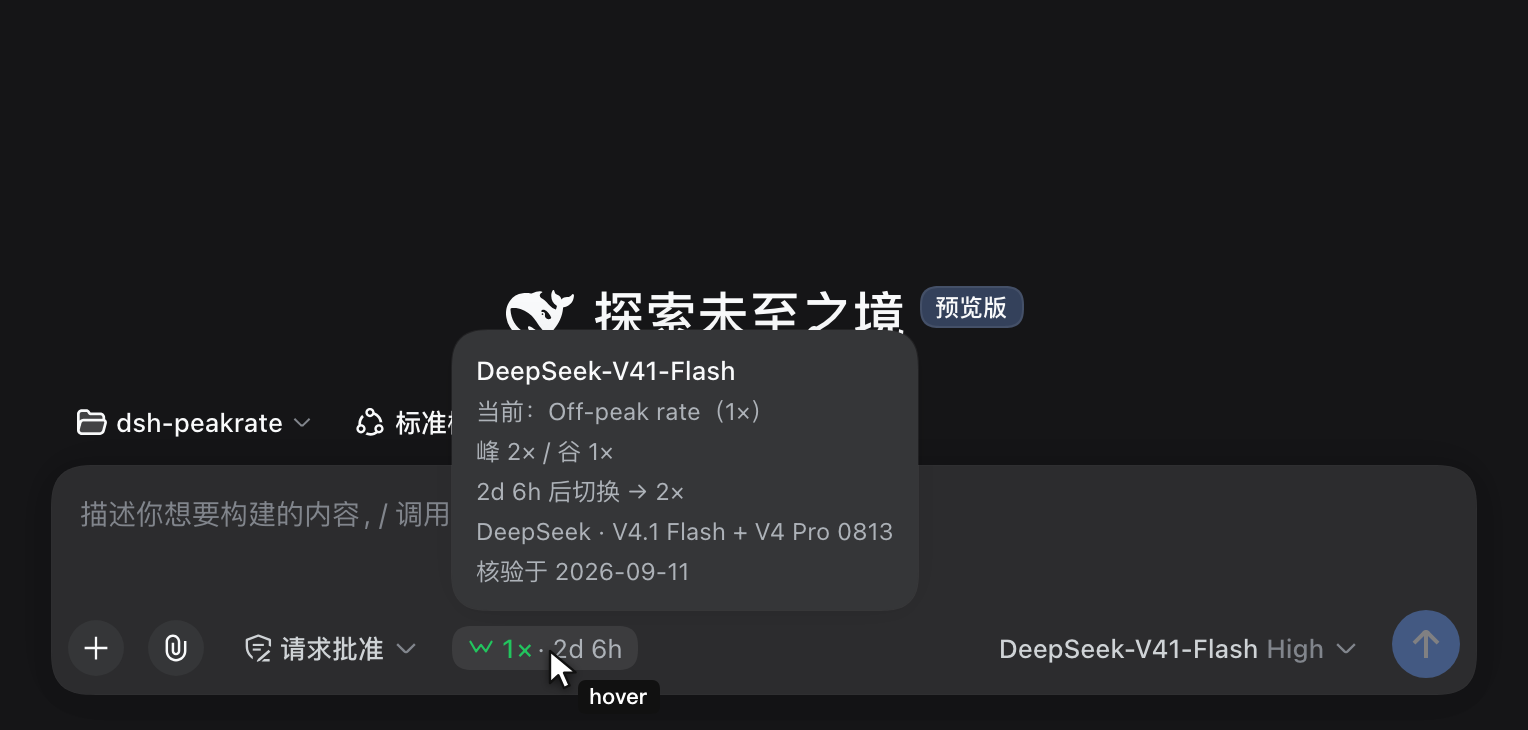
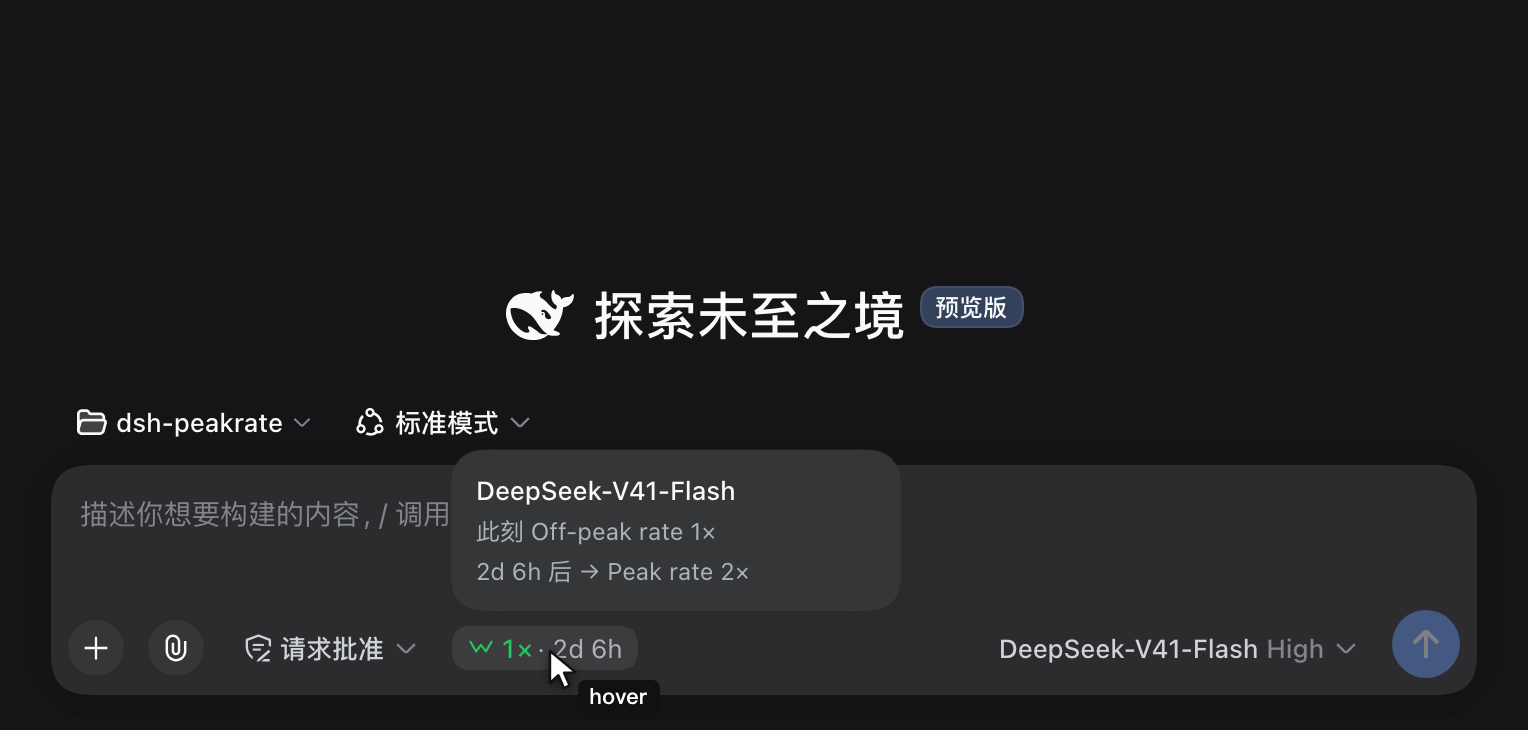
refactor(client): 悬停浮层精简为三行 —— 只讲当前模型（如无必要勿增实体）
用户指出：浮层最下面那行 `DeepSeek · V4.1 Flash + V4 Pro 0813` 列的是**别的模型**
（profile 的覆盖模型族），对使用者没用。

**6 行 → 3 行**：
  DeepSeek-V41-Flash
  此刻 Off-peak rate 1×
  2d 6h 后 → Peak rate 2×

删掉三类「非当前模型 / 重复」的内容：
- profile 覆盖模型族（列别的模型，无用）
- 峰谷对照表 `峰 2× / 谷 1×`（与「此刻 + 下一刻」重复）
- 数据核验日期（属覆盖面板的职责，不属单个模型的即时详情）

同时清掉随之变成死键的 5 个 `detail.*` 文案（不留无用实体）。
162 单测 + 5 项双语契约测试全绿。

Changed region(s): [[0.2768, 0.4521, 0.6152, 0.6329], [0.3076, 0.663, 0.5844, 0.8137]]

diff --git a/src/client/rate.ts b/src/client/rate.ts
@@ -101,31 +101,24 @@ export function detailLines(
   subject?: string,
 ): string[] {
   const { profile, period, badge } = state
-  const currentName = periodName(profile, period)
-  // 主语：hover 的是**当前这个模型**，第一行就该是它的名字。
-  // 没有主语时（菜单行已在 title 里带了模型名）退回 profile 覆盖范围。
   const scope = `${profile.providerName} · ${profile.modelLabel}`
-  const lines = [
-    subject ?? scope,
-    t('detail.current', { name: currentName, badge }),
-  ]
-  if (period === 'campaign' && profile.campaignDetail !== undefined) {
-    lines.push(profile.campaignDetail)
-  }
-  lines.push(t('detail.range', { peak: profile.peakBadge, offPeak: profile.offPeakBadge }))
+  const lines = [subject ?? scope]
+
+  // 只讲**当前这个模型**：此刻什么态、什么倍率，以及多久之后变成什么。
+  // 刻意不列：profile 的覆盖模型族（那是别的模型，对使用者没用）、
+  // 峰谷对照表（与「此刻 + 下一刻」重复）、数据核验日期（属覆盖面板的职责）。
   const countdown = formatCountdown(state.minutesUntilSwitch)
-  if (countdown !== '') {
-    lines.push(
-      state.nextBadge === undefined
-        ? t('detail.switch', { countdown })
-        : t('detail.switchTo', { countdown, badge: state.nextBadge }),
-    )
+  const now = `${periodName(profile, period)} ${badge}`
+  if (countdown === '' || state.nextPeriod === undefined) {
+    lines.push(now)
+    return lines
   }
-  // profile 覆盖范围：当主语是具体模型时，它降为**次要说明**（同一个 profile 常覆盖
-  // 多个共用时段规则的模型，如「V4.1 Flash + V4 Pro 0813」）。
-  if (subject !== undefined) lines.push(scope)
-  if (profile.verifiedAt !== undefined) {
-    lines.push(t('detail.verified', { date: profile.verifiedAt }))
-  }
+  lines.push(
+    t('detail.now', { now }),
+    t('detail.next', {
+      countdown,
+      next: `${periodName(profile, state.nextPeriod)} ${state.nextBadge ?? ''}`.trim(),
+    }),
+  )
   return lines
 }

diff --git a/src/client/index.tsx b/src/client/index.tsx
@@ -241,11 +241,8 @@ const zh: Record<string, string> = {
   'settings.colModel': '模型',
   'settings.colRate': '当前倍率',
   'settings.colProfile': '命中 profile',
-  'detail.current': '当前：{name}（{badge}）',
-  'detail.range': '峰 {peak} / 谷 {offPeak}',
-  'detail.switch': '{countdown} 后切换',
-  'detail.switchTo': '{countdown} 后切换 → {badge}',
-  'detail.verified': '核验于 {date}',
+  'detail.now': '此刻 {now}',
+  'detail.next': '{countdown} 后 → {next}',
   'settings.colCount': '覆盖',
   'settings.source': '目录来源：{origin} · 更新于 {when}',
   'settings.originRemote': '远端',
@@ -294,11 +291,8 @@ const en: Record<string, string> = {
   'settings.colModel': 'Model',
   'settings.colRate': 'Current rate',
   'settings.colProfile': 'Matched profile',
-  'detail.current': 'Now: {name} ({badge})',
-  'detail.range': 'Peak {peak} / off-peak {offPeak}',
-  'detail.switch': 'Switches in {countdown}',
-  'detail.switchTo': 'Switches in {countdown} → {badge}',
-  'detail.verified': 'Verified {date}',
+  'detail.now': 'Now {now}',
+  'detail.next': 'in {countdown} → {next}',
   'settings.colCount': 'Covered',
   'settings.source': 'Catalog: {origin} · updated {when}',
   'settings.originRemote': 'remote',

diff --git a/README.md b/README.md
@@ -82,9 +82,9 @@ Every shape of rate is in play above: `2×` peak, `1×` and `0.5×` off-peak, a 
 
 <img src="docs/chip.png" width="560" alt="Rate badge in the composer tool row" />
 
-**Hover the badge** for the full picture — which model, which state, the peak/off-peak spread,
-when it switches and to what, and which profile it matched. The card is drawn by the plugin
-itself (not an OS tooltip), so it follows the theme and is reachable by keyboard focus too:
+**Hover the badge** for the detail: the state now, and what it becomes and when. The card is drawn
+by the plugin itself (not an OS tooltip), so it follows the theme and is reachable by keyboard
+focus too:
 
 <img src="docs/hover-card.png" width="720" alt="Hover detail card" />
 

diff --git a/README.zh.md b/README.zh.md
@@ -83,9 +83,8 @@ dsh plugin add ./path/to/dsh-peakrate
 
 <img src="docs/chip.png" width="560" alt="composer 工具行里的倍率徽章" />
 
-**悬停徽章**看全貌 —— 哪个模型、处于哪一态、峰谷对照、何时切换以及切到什么、命中了哪个 profile。
-浮层由插件**自己绘制**（不是系统 tooltip），因此跟随明暗主题、深浅色下观感一致，
-而且**键盘 Tab 聚焦也能唤出**：
+**悬停徽章**看详情：此刻什么态、多久之后变成什么。浮层由插件**自己绘制**（非系统 tooltip），
+跟随明暗主题，键盘聚焦同样能唤出：
 
 <img src="docs/hover-card.png" width="720" alt="悬停详情浮层" />
 
